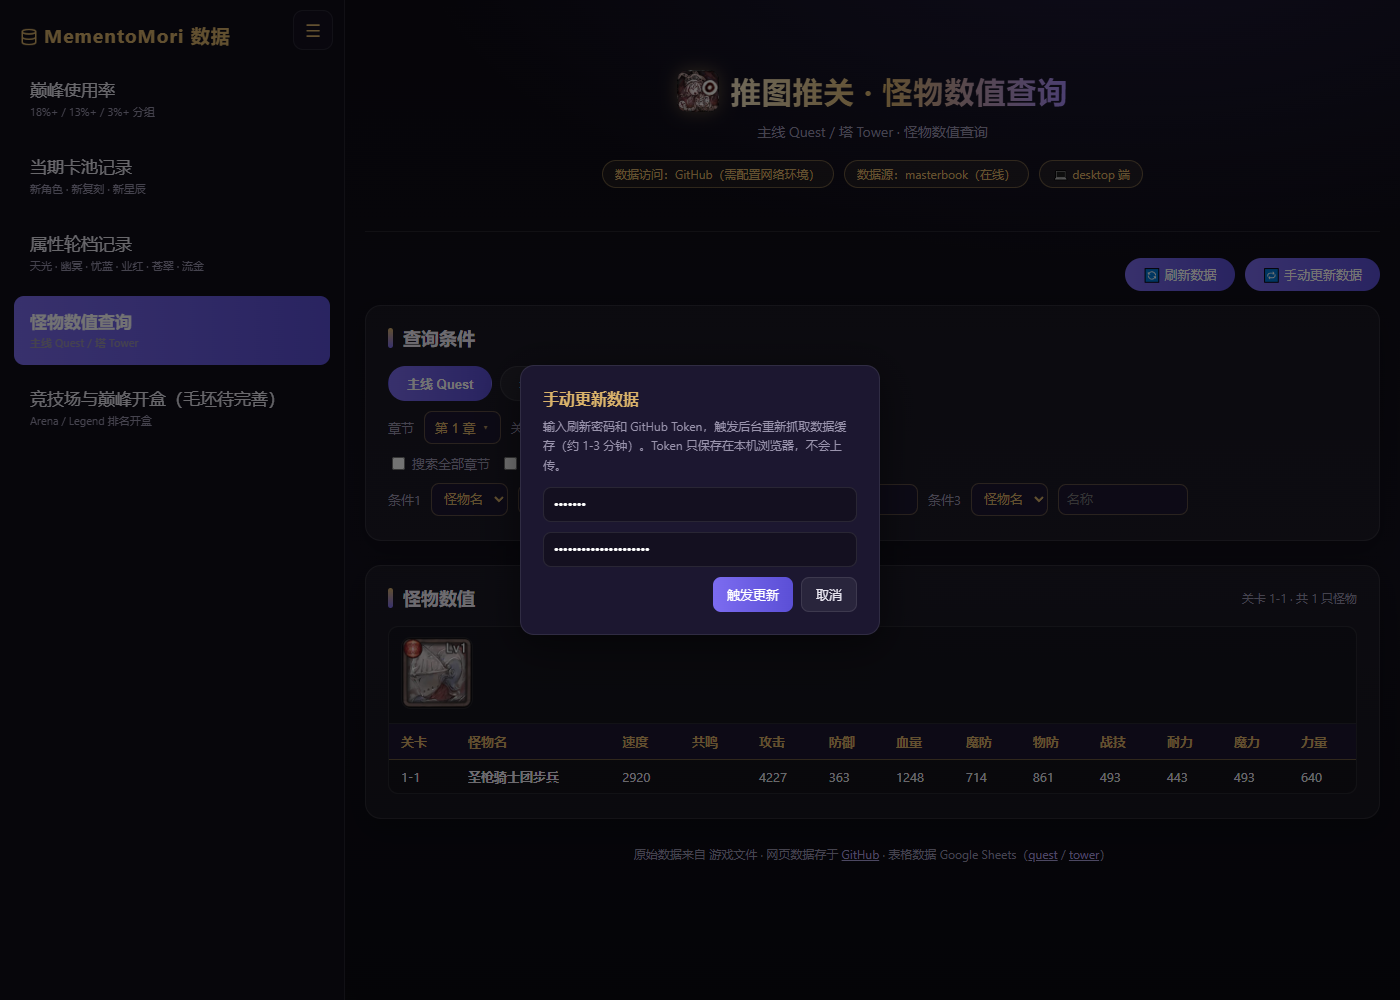
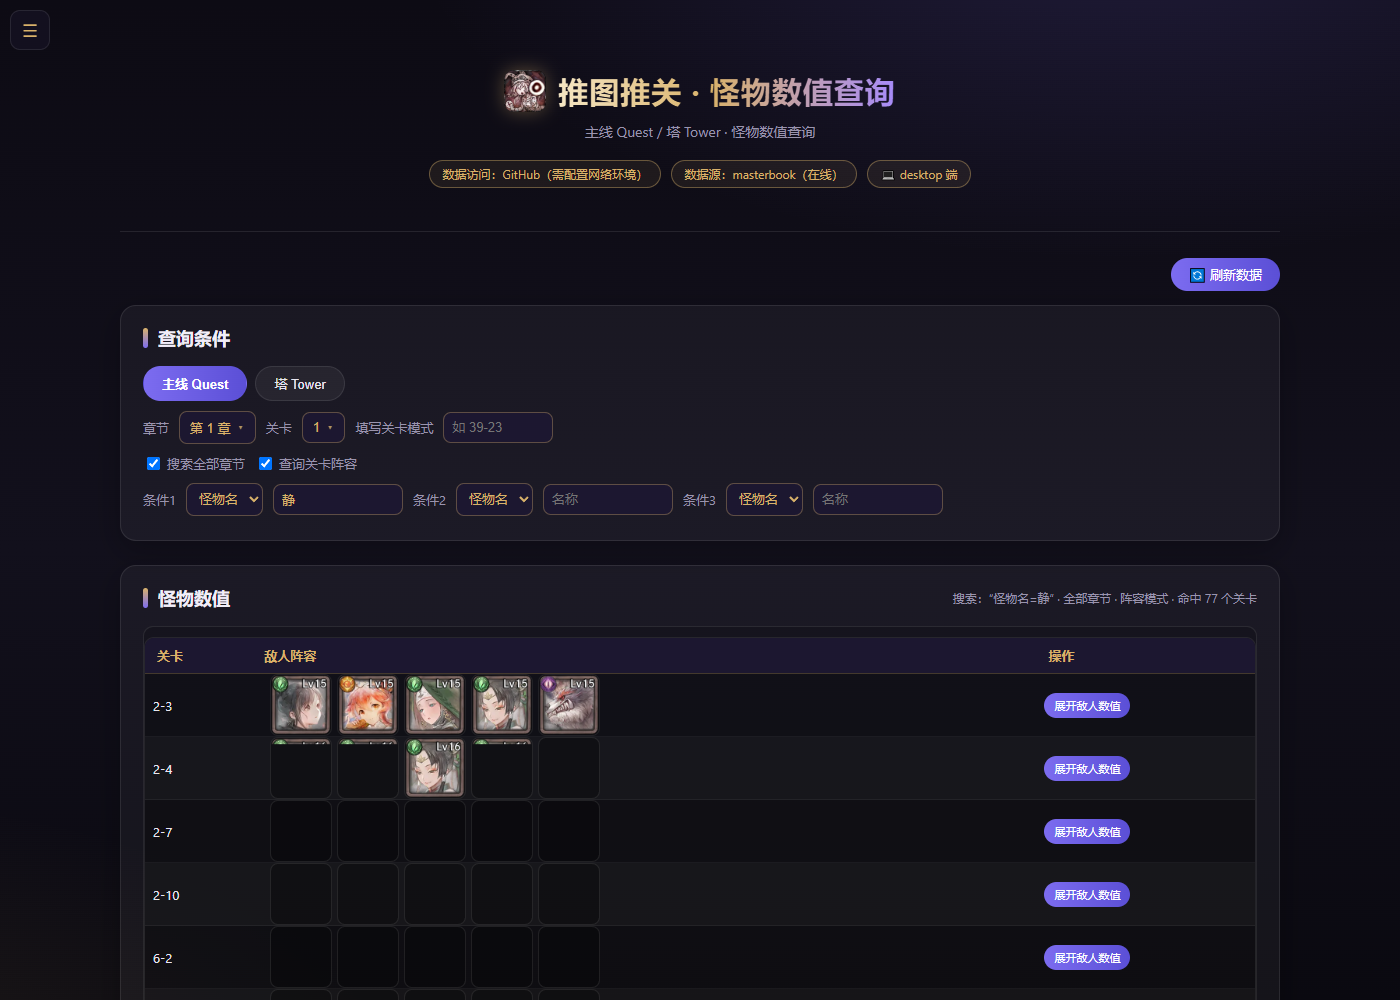
回退：移除三个页面的手动刷新(action刷新)功能，恢复为仅每日定时缓存

diff --git a/openpvp.html b/openpvp.html
@@ -104,15 +104,6 @@ body:not(.side-collapsed) .side-open{left:calc(345px - 52px)}
 .cslot{cursor:pointer}
 .cslot:hover img{outline:1px solid var(--gold)}
 
-
-.modal{position:fixed;inset:0;background:rgba(0,0,0,.55);display:none;align-items:center;justify-content:center;z-index:100}
-.modal-box{background:#1c1730;border:1px solid var(--panel-border);border-radius:14px;padding:22px;width:min(360px,92vw);box-shadow:0 10px 40px rgba(0,0,0,.5)}
-.modal-box h3{margin:0 0 8px;font-size:16px;color:var(--gold)}
-.modal-box p{margin:0 0 12px;font-size:12px;color:var(--muted);line-height:1.6}
-.modal-box input{width:100%;box-sizing:border-box;margin-bottom:10px;background:#141020;color:#fff;border:1px solid var(--panel-border);border-radius:8px;padding:9px 10px;font-size:13px;outline:none}
-.modal-btns{display:flex;gap:8px;justify-content:flex-end}
-.modal-btns button{background:linear-gradient(90deg,#7c6cf0,#5b4fd6);color:#fff;border:0;border-radius:8px;padding:8px 14px;font-size:13px;cursor:pointer}
-.modal-btns button.ghost{background:rgba(255,255,255,.06);color:var(--text);border:1px solid var(--panel-border)}
 </style>
 </head>
 <body>
@@ -139,7 +130,6 @@ body:not(.side-collapsed) .side-open{left:calc(345px - 52px)}
 
   <div class="toolbar">
     <button id="btn-refresh" onclick="load(true)">🔄 刷新数据</button>
-    <button id="btn-manual" onclick="openRefresh()">🔁 手动更新数据</button>
   </div>
 
   <section class="card">
@@ -407,67 +397,6 @@ function detectDevice(){
 detectDevice();
 toggleSide(window.matchMedia("(min-width: 769px)").matches);
 init();
-
-// ---------- 手动更新数据（密码 + Token 触发 GitHub Actions） ----------
-const REFRESH_PASS = "mmt2026"; // TODO: 改成你自己的密码
-const REPO_FULL = "WillieumK/mementomori-charaPage";
-const REFRESH_WF = "fetch.yml";
-function openRefresh(){ const m = document.getElementById("refresh-modal"); if (m) m.style.display = "flex"; }
-function closeModal(){ const m = document.getElementById("refresh-modal"); if (m) m.style.display = "none"; }
-async function doManualRefresh(){
-  const pass = document.getElementById("rf-pass").value;
-  if (pass !== REFRESH_PASS){ alert("密码错误"); return; }
-  let token = document.getElementById("rf-token").value.trim();
-  if (!token) token = localStorage.getItem("mmt_gh_token") || "";
-  if (token){ try { localStorage.setItem("mmt_gh_token", token); } catch(e){} }
-  if (!token){ alert("请填写 GitHub Token"); return; }
-  const url = "https://api.github.com/repos/" + REPO_FULL + "/actions/workflows/" + REFRESH_WF + "/dispatches";
-  try{
-    const r = await fetch(url, {
-      method: "POST",
-      headers: { "Authorization": "Bearer " + token, "Accept": "application/vnd.github+json", "Content-Type": "application/json", "User-Agent": "mmt-page" },
-      body: JSON.stringify({ ref: "main" })
-    });
-    if (!r.ok){ const t = (await r.text()).slice(0, 200); alert("触发失败（" + r.status + "）：" + t); return; }
-    alert("已触发数据更新，正在后台抓取…完成后会再次提示");
-    const run = await waitWorkflowDone(token, 180000);
-    if (run && run.status === "completed"){
-      if (run.conclusion === "success") alert("数据刷新完成！请点「刷新数据」查看最新缓存");
-      else alert("刷新流程已结束，但结果异常：" + run.conclusion + "，请到 GitHub Actions 查看");
-    } else {
-      alert("等待超时，请稍后到 GitHub Actions 确认，或点「刷新数据」查看");
-    }
-    closeModal();
-  }catch(err){ alert("网络错误：" + err.message); }
-}
-async function waitWorkflowDone(token, timeoutMs){
-  const q = "https://api.github.com/repos/" + REPO_FULL + "/actions/workflows/" + REFRESH_WF + "/runs?per_page=1";
-  const start = Date.now();
-  while (Date.now() - start < timeoutMs){
-    try{
-      const r = await fetch(q, { headers: { Authorization: "Bearer " + token, Accept: "application/vnd.github+json", "User-Agent": "mmt-page" } });
-      if (r.ok){
-        const d = await r.json();
-        const run = d.workflow_runs && d.workflow_runs[0];
-        if (run && run.status === "completed") return run;
-      }
-    }catch(e){}
-    await new Promise(res => setTimeout(res, 8000));
-  }
-  return null;
-}
 </script>
-<div class="modal" id="refresh-modal" onclick="if(event.target===this)closeModal()">
-  <div class="modal-box">
-    <h3>手动更新数据</h3>
-    <p>输入刷新密码和 GitHub Token，触发后台重新抓取数据缓存（约 1-3 分钟）。Token 只保存在本机浏览器，不会上传。</p>
-    <input type="password" id="rf-pass" placeholder="刷新密码">
-    <input type="password" id="rf-token" placeholder="GitHub Token（PAT）">
-    <div class="modal-btns">
-      <button onclick="doManualRefresh()">触发更新</button>
-      <button class="ghost" onclick="closeModal()">取消</button>
-    </div>
-  </div>
-</div>
 </body>
 </html>

diff --git a/index.html b/index.html
@@ -249,15 +249,6 @@ body:not(.side-collapsed) .side-open{left:calc(345px - 52px)}
 
 html{scroll-behavior:smooth}
 section[id]{scroll-margin-top:16px}
-
-.modal{position:fixed;inset:0;background:rgba(0,0,0,.55);display:none;align-items:center;justify-content:center;z-index:100}
-.modal-box{background:#1c1730;border:1px solid var(--panel-border);border-radius:14px;padding:22px;width:min(360px,92vw);box-shadow:0 10px 40px rgba(0,0,0,.5)}
-.modal-box h3{margin:0 0 8px;font-size:16px;color:var(--gold)}
-.modal-box p{margin:0 0 12px;font-size:12px;color:var(--muted);line-height:1.6}
-.modal-box input{width:100%;box-sizing:border-box;margin-bottom:10px;background:#141020;color:#fff;border:1px solid var(--panel-border);border-radius:8px;padding:9px 10px;font-size:13px;outline:none}
-.modal-btns{display:flex;gap:8px;justify-content:flex-end}
-.modal-btns button{background:linear-gradient(90deg,#7c6cf0,#5b4fd6);color:#fff;border:0;border-radius:8px;padding:8px 14px;font-size:13px;cursor:pointer}
-.modal-btns button.ghost{background:rgba(255,255,255,.06);color:var(--text);border:1px solid var(--panel-border)}
 </style>
 </head>
 <body>
@@ -285,7 +276,6 @@ section[id]{scroll-margin-top:16px}
 
   <div class="toolbar">
     <button id="btn-refresh" onclick="load(true)">🔄 刷新数据</button>
-    <button id="btn-manual" onclick="openRefresh()">🔁 手动更新数据</button>
   </div>
 
   <section class="card" id="sec-usage">
@@ -834,67 +824,6 @@ toggleSide(window.matchMedia("(min-width: 769px)").matches);
 initScrollSpy();
 load(false);
 scheduleRefresh();
-
-// ---------- 手动更新数据（密码 + Token 触发 GitHub Actions） ----------
-const REFRESH_PASS = "mmt2026"; // TODO: 改成你自己的密码
-const REPO_FULL = "WillieumK/mementomori-charaPage";
-const REFRESH_WF = "fetch.yml";
-function openRefresh(){ const m = document.getElementById("refresh-modal"); if (m) m.style.display = "flex"; }
-function closeModal(){ const m = document.getElementById("refresh-modal"); if (m) m.style.display = "none"; }
-async function doManualRefresh(){
-  const pass = document.getElementById("rf-pass").value;
-  if (pass !== REFRESH_PASS){ alert("密码错误"); return; }
-  let token = document.getElementById("rf-token").value.trim();
-  if (!token) token = localStorage.getItem("mmt_gh_token") || "";
-  if (token){ try { localStorage.setItem("mmt_gh_token", token); } catch(e){} }
-  if (!token){ alert("请填写 GitHub Token"); return; }
-  const url = "https://api.github.com/repos/" + REPO_FULL + "/actions/workflows/" + REFRESH_WF + "/dispatches";
-  try{
-    const r = await fetch(url, {
-      method: "POST",
-      headers: { "Authorization": "Bearer " + token, "Accept": "application/vnd.github+json", "Content-Type": "application/json", "User-Agent": "mmt-page" },
-      body: JSON.stringify({ ref: "main" })
-    });
-    if (!r.ok){ const t = (await r.text()).slice(0, 200); alert("触发失败（" + r.status + "）：" + t); return; }
-    alert("已触发数据更新，正在后台抓取…完成后会再次提示");
-    const run = await waitWorkflowDone(token, 180000);
-    if (run && run.status === "completed"){
-      if (run.conclusion === "success") alert("数据刷新完成！请点「刷新数据」查看最新缓存");
-      else alert("刷新流程已结束，但结果异常：" + run.conclusion + "，请到 GitHub Actions 查看");
-    } else {
-      alert("等待超时，请稍后到 GitHub Actions 确认，或点「刷新数据」查看");
-    }
-    closeModal();
-  }catch(err){ alert("网络错误：" + err.message); }
-}
-async function waitWorkflowDone(token, timeoutMs){
-  const q = "https://api.github.com/repos/" + REPO_FULL + "/actions/workflows/" + REFRESH_WF + "/runs?per_page=1";
-  const start = Date.now();
-  while (Date.now() - start < timeoutMs){
-    try{
-      const r = await fetch(q, { headers: { Authorization: "Bearer " + token, Accept: "application/vnd.github+json", "User-Agent": "mmt-page" } });
-      if (r.ok){
-        const d = await r.json();
-        const run = d.workflow_runs && d.workflow_runs[0];
-        if (run && run.status === "completed") return run;
-      }
-    }catch(e){}
-    await new Promise(res => setTimeout(res, 8000));
-  }
-  return null;
-}
 </script>
-<div class="modal" id="refresh-modal" onclick="if(event.target===this)closeModal()">
-  <div class="modal-box">
-    <h3>手动更新数据</h3>
-    <p>输入刷新密码和 GitHub Token，触发后台重新抓取数据缓存（约 1-3 分钟）。Token 只保存在本机浏览器，不会上传。</p>
-    <input type="password" id="rf-pass" placeholder="刷新密码">
-    <input type="password" id="rf-token" placeholder="GitHub Token（PAT）">
-    <div class="modal-btns">
-      <button onclick="doManualRefresh()">触发更新</button>
-      <button class="ghost" onclick="closeModal()">取消</button>
-    </div>
-  </div>
-</div>
 </body>
 </html>

diff --git a/monsters.html b/monsters.html
@@ -140,15 +140,6 @@ body:not(.side-collapsed) .side-open{left:calc(345px - 52px)}
 }
 html{scroll-behavior:smooth}
 section[id]{scroll-margin-top:16px}
-
-.modal{position:fixed;inset:0;background:rgba(0,0,0,.55);display:none;align-items:center;justify-content:center;z-index:100}
-.modal-box{background:#1c1730;border:1px solid var(--panel-border);border-radius:14px;padding:22px;width:min(360px,92vw);box-shadow:0 10px 40px rgba(0,0,0,.5)}
-.modal-box h3{margin:0 0 8px;font-size:16px;color:var(--gold)}
-.modal-box p{margin:0 0 12px;font-size:12px;color:var(--muted);line-height:1.6}
-.modal-box input{width:100%;box-sizing:border-box;margin-bottom:10px;background:#141020;color:#fff;border:1px solid var(--panel-border);border-radius:8px;padding:9px 10px;font-size:13px;outline:none}
-.modal-btns{display:flex;gap:8px;justify-content:flex-end}
-.modal-btns button{background:linear-gradient(90deg,#7c6cf0,#5b4fd6);color:#fff;border:0;border-radius:8px;padding:8px 14px;font-size:13px;cursor:pointer}
-.modal-btns button.ghost{background:rgba(255,255,255,.06);color:var(--text);border:1px solid var(--panel-border)}
 </style>
 </head>
 <body>
@@ -176,7 +167,6 @@ section[id]{scroll-margin-top:16px}
 
   <div class="toolbar">
     <button id="btn-refresh" onclick="loadData(true)">🔄 刷新数据</button>
-    <button id="btn-manual" onclick="openRefresh()">🔁 手动更新数据</button>
   </div>
 
   <section class="card">
@@ -817,67 +807,6 @@ function detectDevice(){
 detectDevice();
 toggleSide(window.matchMedia("(min-width: 769px)").matches);
 loadData(false);
-
-// ---------- 手动更新数据（密码 + Token 触发 GitHub Actions） ----------
-const REFRESH_PASS = "mmt2026"; // TODO: 改成你自己的密码
-const REPO_FULL = "WillieumK/mementomori-charaPage";
-const REFRESH_WF = "fetch.yml";
-function openRefresh(){ const m = document.getElementById("refresh-modal"); if (m) m.style.display = "flex"; }
-function closeModal(){ const m = document.getElementById("refresh-modal"); if (m) m.style.display = "none"; }
-async function doManualRefresh(){
-  const pass = document.getElementById("rf-pass").value;
-  if (pass !== REFRESH_PASS){ alert("密码错误"); return; }
-  let token = document.getElementById("rf-token").value.trim();
-  if (!token) token = localStorage.getItem("mmt_gh_token") || "";
-  if (token){ try { localStorage.setItem("mmt_gh_token", token); } catch(e){} }
-  if (!token){ alert("请填写 GitHub Token"); return; }
-  const url = "https://api.github.com/repos/" + REPO_FULL + "/actions/workflows/" + REFRESH_WF + "/dispatches";
-  try{
-    const r = await fetch(url, {
-      method: "POST",
-      headers: { "Authorization": "Bearer " + token, "Accept": "application/vnd.github+json", "Content-Type": "application/json", "User-Agent": "mmt-page" },
-      body: JSON.stringify({ ref: "main" })
-    });
-    if (!r.ok){ const t = (await r.text()).slice(0, 200); alert("触发失败（" + r.status + "）：" + t); return; }
-    alert("已触发数据更新，正在后台抓取…完成后会再次提示");
-    const run = await waitWorkflowDone(token, 180000);
-    if (run && run.status === "completed"){
-      if (run.conclusion === "success") alert("数据刷新完成！请点「刷新数据」查看最新缓存");
-      else alert("刷新流程已结束，但结果异常：" + run.conclusion + "，请到 GitHub Actions 查看");
-    } else {
-      alert("等待超时，请稍后到 GitHub Actions 确认，或点「刷新数据」查看");
-    }
-    closeModal();
-  }catch(err){ alert("网络错误：" + err.message); }
-}
-async function waitWorkflowDone(token, timeoutMs){
-  const q = "https://api.github.com/repos/" + REPO_FULL + "/actions/workflows/" + REFRESH_WF + "/runs?per_page=1";
-  const start = Date.now();
-  while (Date.now() - start < timeoutMs){
-    try{
-      const r = await fetch(q, { headers: { Authorization: "Bearer " + token, Accept: "application/vnd.github+json", "User-Agent": "mmt-page" } });
-      if (r.ok){
-        const d = await r.json();
-        const run = d.workflow_runs && d.workflow_runs[0];
-        if (run && run.status === "completed") return run;
-      }
-    }catch(e){}
-    await new Promise(res => setTimeout(res, 8000));
-  }
-  return null;
-}
 </script>
-<div class="modal" id="refresh-modal" onclick="if(event.target===this)closeModal()">
-  <div class="modal-box">
-    <h3>手动更新数据</h3>
-    <p>输入刷新密码和 GitHub Token，触发后台重新抓取数据缓存（约 1-3 分钟）。Token 只保存在本机浏览器，不会上传。</p>
-    <input type="password" id="rf-pass" placeholder="刷新密码">
-    <input type="password" id="rf-token" placeholder="GitHub Token（PAT）">
-    <div class="modal-btns">
-      <button onclick="doManualRefresh()">触发更新</button>
-      <button class="ghost" onclick="closeModal()">取消</button>
-    </div>
-  </div>
-</div>
 </body>
 </html>
